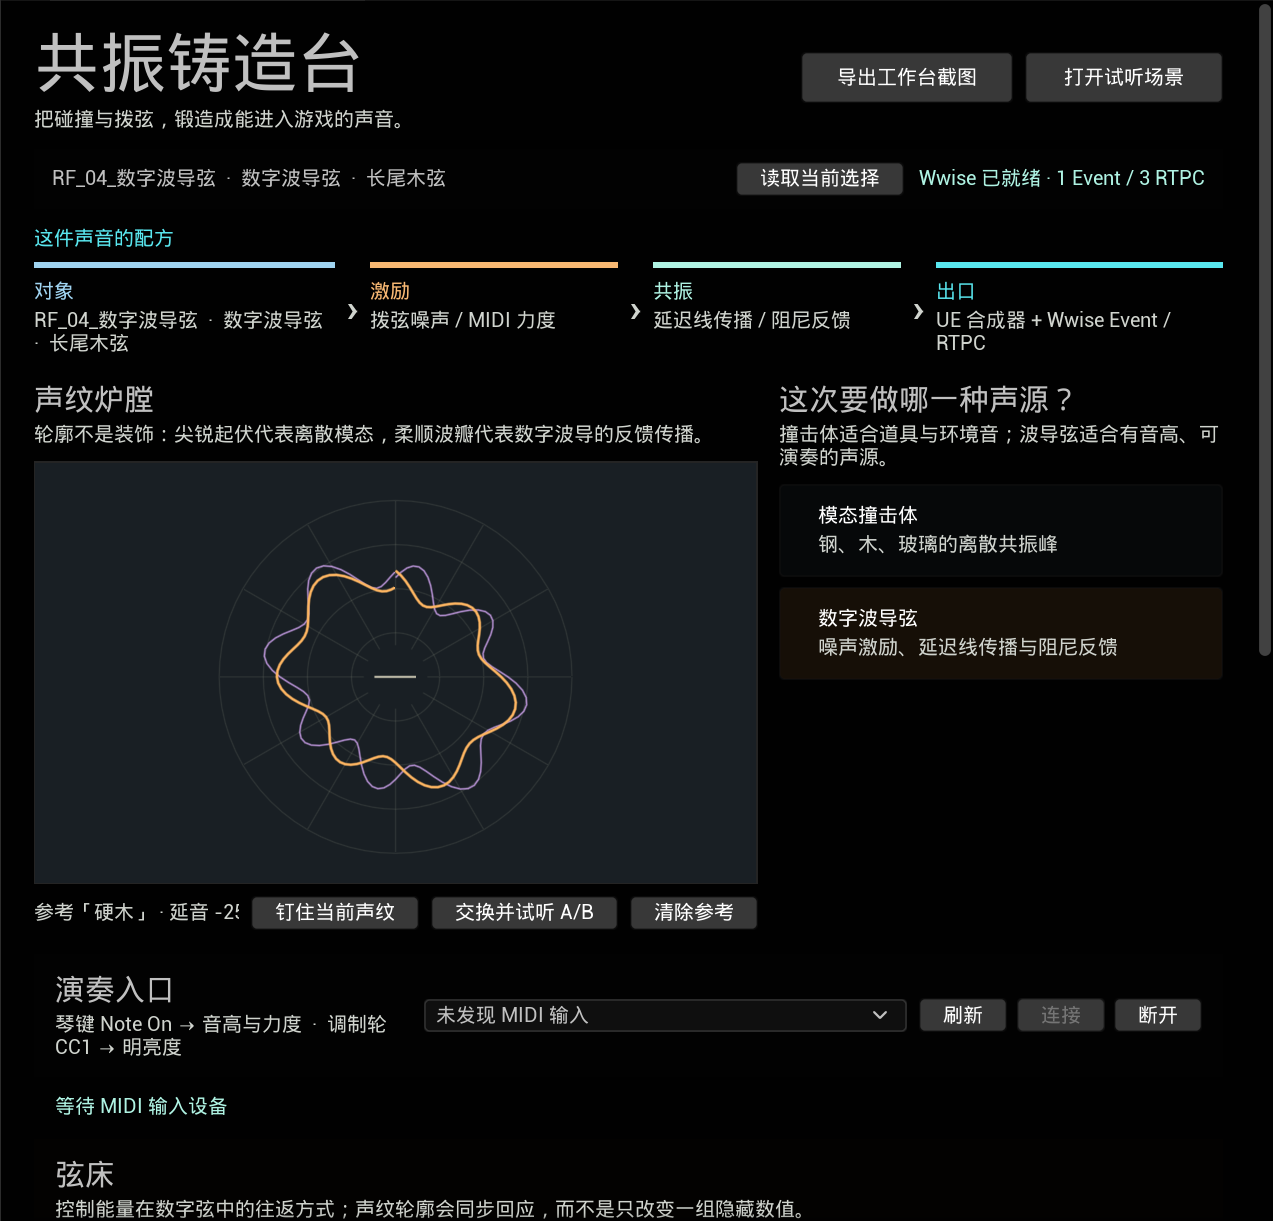
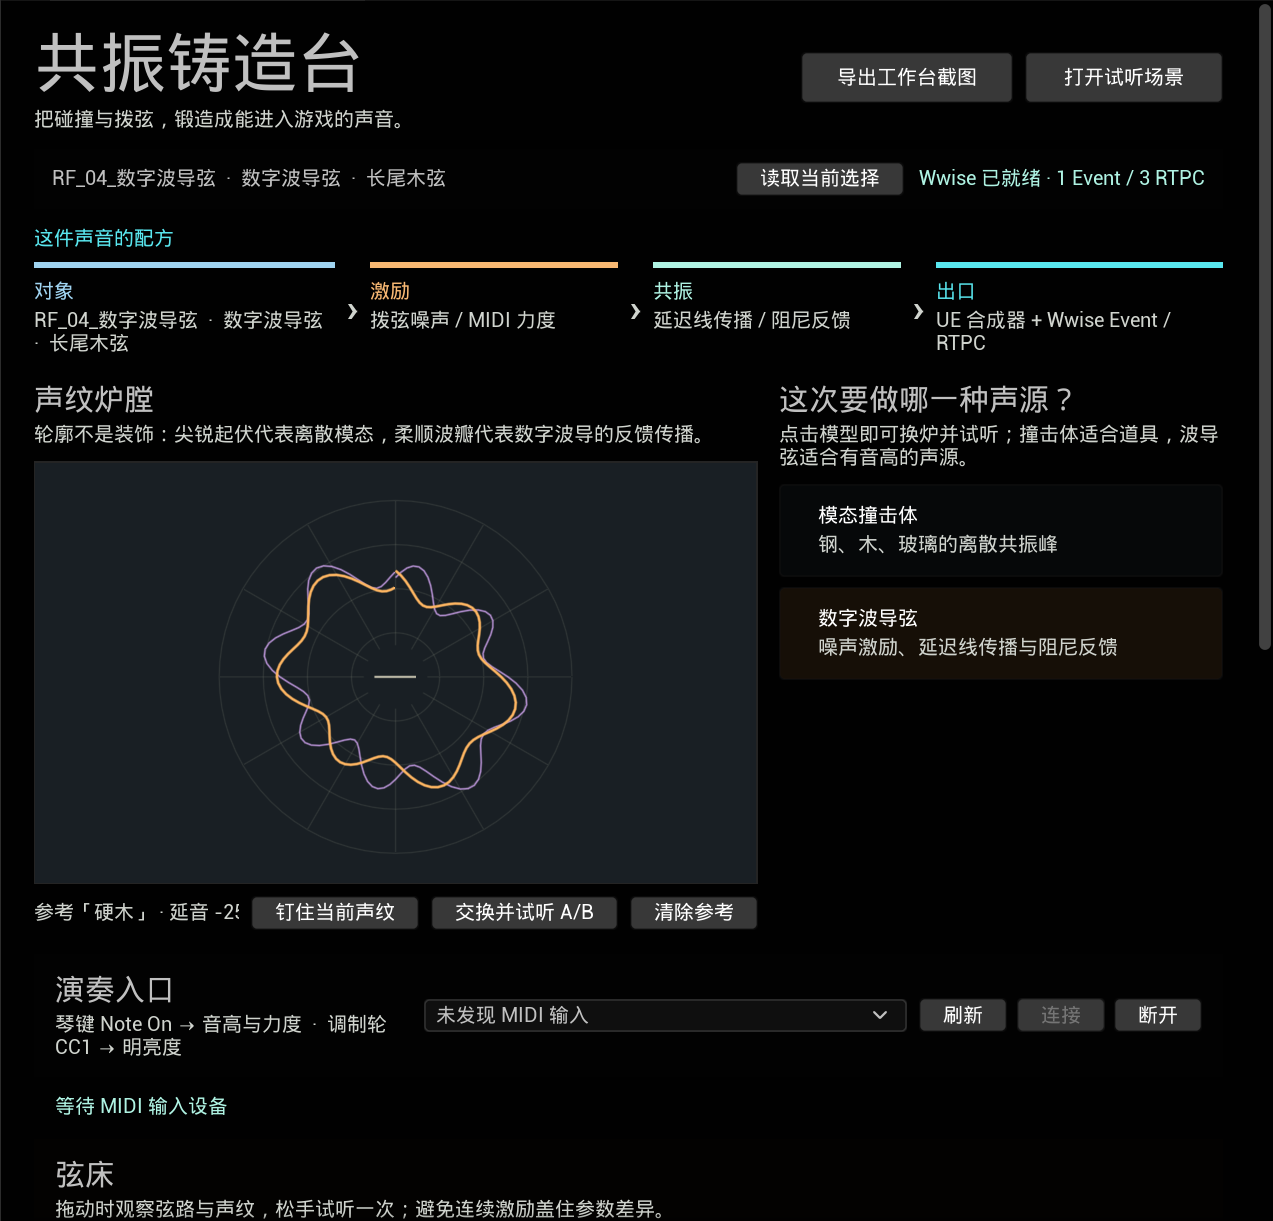
让工作台参数调整真正可试听

Changed region(s): [[0.0306, 0.9648, 0.6434, 1.0], [0.6127, 0.3423, 0.9497, 0.4046]]

diff --git a/Source/ResonanceForgeEditor/Private/ResonanceForgeEditorModule.cpp b/Source/ResonanceForgeEditor/Private/ResonanceForgeEditorModule.cpp
@@ -312,6 +312,26 @@ void FResonanceForgeEditorModule::ApplyWaveguideParameters()
     }
 }
 
+void FResonanceForgeEditorModule::AuditionCurrentSound(const FText& ChangeLabel)
+{
+    if (AResonanceForgeImpactInstrumentActor* Instrument = ResolveInstrument())
+    {
+        Instrument->ObjectSize = PreviewSize;
+        ApplyWaveguideParameters();
+        Instrument->TriggerInstrument(PreviewEnergy, PreviewBrightness, 60);
+        LastStatus = FText::Format(
+            NSLOCTEXT("ResonanceForge", "AuditionedChange", "{0} · 已试听  能量 {1}% / 明亮度 {2}% / 尺度 {3}%"),
+            ChangeLabel,
+            FText::AsNumber(FMath::RoundToInt(PreviewEnergy * 100.0f)),
+            FText::AsNumber(FMath::RoundToInt(PreviewBrightness * 100.0f)),
+            FText::AsNumber(FMath::RoundToInt(PreviewSize * 100.0f)));
+    }
+    else
+    {
+        LastStatus = NSLOCTEXT("ResonanceForge", "AuditionMissing", "无法试听 · 请先打开试听场景并选择一个共振体");
+    }
+}
+
 FReply FResonanceForgeEditorModule::SyncFromSelection()
 {
     if (const AResonanceForgeImpactInstrumentActor* Instrument = ResolveInstrument())
@@ -346,22 +366,7 @@ FReply FResonanceForgeEditorModule::SyncFromSelection()
 
 FReply FResonanceForgeEditorModule::TriggerPreview()
 {
-    if (AResonanceForgeImpactInstrumentActor* Instrument = ResolveInstrument())
-    {
-        Instrument->ObjectSize = PreviewSize;
-        ApplyWaveguideParameters();
-        Instrument->TriggerInstrument(PreviewEnergy, PreviewBrightness, 60);
-        LastStatus = FText::Format(
-            NSLOCTEXT("ResonanceForge", "Triggered", "已触发 {0} · Energy {1}% / Brightness {2}% / Size {3}%"),
-            FText::FromName(Instrument->ResonancePreset),
-            FText::AsNumber(FMath::RoundToInt(PreviewEnergy * 100.0f)),
-            FText::AsNumber(FMath::RoundToInt(PreviewBrightness * 100.0f)),
-            FText::AsNumber(FMath::RoundToInt(PreviewSize * 100.0f)));
-    }
-    else
-    {
-        LastStatus = NSLOCTEXT("ResonanceForge", "PreviewMissing", "无法预听 · 场景中没有可用的共振体");
-    }
+    AuditionCurrentSound(NSLOCTEXT("ResonanceForge", "CurrentVoice", "当前声纹"));
     return FReply::Handled();
 }
 
@@ -984,6 +989,9 @@ TSharedRef<SDockTab> FResonanceForgeEditorModule::SpawnWorkbench(const FSpawnTab
             .OnClicked_Lambda([this, ModelType]
             {
                 ApplyModel(ModelType);
+                AuditionCurrentSound(ModelType == EResonanceModelType::WaveguideString
+                    ? NSLOCTEXT("ResonanceForge", "WaveguideAudition", "数字波导弦")
+                    : NSLOCTEXT("ResonanceForge", "ModalAudition", "模态撞击体"));
                 return FReply::Handled();
             })
             [
@@ -1005,11 +1013,14 @@ TSharedRef<SDockTab> FResonanceForgeEditorModule::SpawnWorkbench(const FSpawnTab
             .OnClicked_Lambda([this, Preset]
             {
                 ApplyPreset(Preset);
+                AuditionCurrentSound(FText::Format(
+                    NSLOCTEXT("ResonanceForge", "PresetAudition", "材质「{0}」"),
+                    FText::FromName(Preset)));
                 return FReply::Handled();
             });
     };
 
-    auto ParameterRow = [](const FText& Name, const FText& Mapping, float* Value, const FLinearColor& Color)
+    auto ParameterRow = [this](const FText& Name, const FText& Mapping, float* Value, const FLinearColor& Color)
     {
         return SNew(SVerticalBox)
             + SVerticalBox::Slot().AutoHeight()
@@ -1024,8 +1035,17 @@ TSharedRef<SDockTab> FResonanceForgeEditorModule::SpawnWorkbench(const FSpawnTab
             ]
             + SVerticalBox::Slot().AutoHeight().Padding(0, 7, 0, 0)
             [
-                SNew(SSlider).Value_Lambda([Value]{ return *Value; }).OnValueChanged_Lambda([Value](float NewValue){ *Value = NewValue; })
-                .SliderBarColor(Color).SliderHandleColor(Color)
+                SNew(SSlider)
+                .Value_Lambda([Value]{ return *Value; })
+                .OnValueChanged_Lambda([Value](float NewValue){ *Value = NewValue; })
+                .OnMouseCaptureEnd_Lambda([this, Name]
+                {
+                    AuditionCurrentSound(FText::Format(
+                        NSLOCTEXT("ResonanceForge", "ParameterAudition", "{0}调整完成"),
+                        Name));
+                })
+                .SliderBarColor(Color)
+                .SliderHandleColor(Color)
             ];
     };
 
@@ -1094,6 +1114,12 @@ TSharedRef<SDockTab> FResonanceForgeEditorModule::SpawnWorkbench(const FSpawnTab
                 {
                     *Value = NewValue;
                     ApplyWaveguideParameters();
+                })
+                .OnMouseCaptureEnd_Lambda([this, Name]
+                {
+                    AuditionCurrentSound(FText::Format(
+                        NSLOCTEXT("ResonanceForge", "WaveguideParameterAudition", "{0}调整完成"),
+                        Name));
                 })
                 .SliderBarColor(Color)
                 .SliderHandleColor(Color)
@@ -1210,7 +1236,7 @@ TSharedRef<SDockTab> FResonanceForgeEditorModule::SpawnWorkbench(const FSpawnTab
                         + SHorizontalBox::Slot().FillWidth(0.95f).Padding(7, 0, 0, 0)
                         [
                             SNew(SVerticalBox)
-                            + SVerticalBox::Slot().AutoHeight()[WorkspaceTitle(NSLOCTEXT("ResonanceForge", "Model", "这次要做哪一种声源？"), NSLOCTEXT("ResonanceForge", "ModelDetail", "撞击体适合道具与环境音；波导弦适合有音高、可演奏的声源。"))]
+                            + SVerticalBox::Slot().AutoHeight()[WorkspaceTitle(NSLOCTEXT("ResonanceForge", "Model", "这次要做哪一种声源？"), NSLOCTEXT("ResonanceForge", "ModelDetail", "点击模型即可换炉并试听；撞击体适合道具，波导弦适合有音高的声源。"))]
                             + SVerticalBox::Slot().AutoHeight().Padding(0, 10, 0, 7)
                             [ModelButton(EResonanceModelType::ModalImpact, NSLOCTEXT("ResonanceForge", "Modal", "模态撞击体"), NSLOCTEXT("ResonanceForge", "ModalHelp", "钢、木、玻璃的离散共振峰"), Cyan)]
                             + SVerticalBox::Slot().AutoHeight()
@@ -1270,7 +1296,7 @@ TSharedRef<SDockTab> FResonanceForgeEditorModule::SpawnWorkbench(const FSpawnTab
                         [
                             SNew(SVerticalBox)
                             + SVerticalBox::Slot().AutoHeight()
-                            [WorkspaceTitle(NSLOCTEXT("ResonanceForge", "StringBed", "弦床"), NSLOCTEXT("ResonanceForge", "StringBedDetail", "控制能量在数字弦中的往返方式；声纹轮廓会同步回应，而不是只改变一组隐藏数值。"))]
+                            [WorkspaceTitle(NSLOCTEXT("ResonanceForge", "StringBed", "弦床"), NSLOCTEXT("ResonanceForge", "StringBedDetail", "拖动时观察弦路与声纹，松手试听一次；避免连续激励盖住参数差异。"))]
                             + SVerticalBox::Slot().AutoHeight().Padding(0, 12, 0, 0)
                             [
                                 SNew(SHorizontalBox)
@@ -1289,7 +1315,7 @@ TSharedRef<SDockTab> FResonanceForgeEditorModule::SpawnWorkbench(const FSpawnTab
                         + SHorizontalBox::Slot().FillWidth(1.0f).Padding(0, 0, 10, 0)
                         [
                             SNew(SVerticalBox)
-                            + SVerticalBox::Slot().AutoHeight()[WorkspaceTitle(NSLOCTEXT("ResonanceForge", "Material", "给对象一种听感"), NSLOCTEXT("ResonanceForge", "MaterialDetail", "预设同时改变表面外观、共振峰分布与衰减。"))]
+                            + SVerticalBox::Slot().AutoHeight()[WorkspaceTitle(NSLOCTEXT("ResonanceForge", "Material", "给对象一种听感"), NSLOCTEXT("ResonanceForge", "MaterialDetail", "点击预设会同步表面、共振峰与衰减，并立即试听。"))]
                             + SVerticalBox::Slot().AutoHeight().Padding(0, 10, 0, 0)
                             [
                                 SNew(SHorizontalBox)
@@ -1301,7 +1327,7 @@ TSharedRef<SDockTab> FResonanceForgeEditorModule::SpawnWorkbench(const FSpawnTab
                         + SHorizontalBox::Slot().FillWidth(1.0f).Padding(10, 0, 0, 0)
                         [
                             SNew(SVerticalBox)
-                            + SVerticalBox::Slot().AutoHeight()[WorkspaceTitle(NSLOCTEXT("ResonanceForge", "Performance", "塑造这一次发声"), NSLOCTEXT("ResonanceForge", "PerformanceDetail", "拖动参数后立即试听；同一数值也会发送给 Wwise。"))]
+                            + SVerticalBox::Slot().AutoHeight()[WorkspaceTitle(NSLOCTEXT("ResonanceForge", "Performance", "塑造这一次发声"), NSLOCTEXT("ResonanceForge", "PerformanceDetail", "拖动时看声纹与出口刻度，松手试听一次；同一数值发送给 Wwise。"))]
                             + SVerticalBox::Slot().AutoHeight().Padding(0, 12, 0, 0)[ParameterRow(NSLOCTEXT("ResonanceForge", "Energy", "激励能量"), FText::FromString(TEXT("RF_ImpactEnergy")), &PreviewEnergy, Steel)]
                             + SVerticalBox::Slot().AutoHeight().Padding(0, 12, 0, 0)[ParameterRow(NSLOCTEXT("ResonanceForge", "Brightness", "明亮度"), FText::FromString(TEXT("RF_ImpactBrightness")), &PreviewBrightness, Glass)]
                             + SVerticalBox::Slot().AutoHeight().Padding(0, 12, 0, 0)[ParameterRow(NSLOCTEXT("ResonanceForge", "Size", "共振尺度"), FText::FromString(TEXT("RF_ObjectSize")), &PreviewSize, Wood)]

diff --git a/Source/ResonanceForgeEditor/Public/ResonanceForgeEditorModule.h b/Source/ResonanceForgeEditor/Public/ResonanceForgeEditorModule.h
@@ -17,6 +17,7 @@ private:
     void ApplyPreset(const FName PresetName);
     void ApplyModel(EResonanceModelType ModelType);
     void ApplyWaveguideParameters();
+    void AuditionCurrentSound(const FText& ChangeLabel);
     FReply SyncFromSelection();
     FReply TriggerPreview();
     FReply TriggerStrikePreset(float Energy, float Brightness, const FText& GestureName);

diff --git a/README.md b/README.md
@@ -8,7 +8,7 @@
 ![Unreal Engine 5.8](https://img.shields.io/badge/Unreal_Engine-5.8.1-0E1128?logo=unrealengine&logoColor=white)
 ![Wwise 2025.1](https://img.shields.io/badge/Wwise-2025.1-00549F)
 ![Platform](https://img.shields.io/badge/Platform-Windows_Editor-0078D4?logo=windows&logoColor=white)
-![Version](https://img.shields.io/badge/Version-0.11.0-D96B2B)
+![Version](https://img.shields.io/badge/Version-0.12.0-D96B2B)
 ![License](https://img.shields.io/badge/License-MIT-2EA44F)
 
 </div>
@@ -33,6 +33,7 @@
 - **真实场景输入**：碰撞冲量、相对速度和物体尺寸直接影响声音。
 - **UE × Wwise 双路径**：UE 原生合成可独立试听，同时发布 Wwise Event 与 3 个 RTPC。
 - **锤击标尺与出口刻度**：轻触、常规、重击三档手势一键试听，并把 RTPC 曲线翻译成近似的 dB、低通与 cent 读数。
+- **可听的直接编辑**：点击材质或模型立即试听；拖动参数时声纹和出口刻度实时变化，松手只触发一次声音，避免连续 Event 互相遮盖。
 - **可演奏**：面板可发现并连接 MIDI 输入设备；Note On 控制音高与力度，CC1 控制音色明亮度，并显示实时演奏状态。
 - **声纹炉膛**：用随模型、材质与演奏参数实时变化的声学指纹理解声音，而不是只看抽象滑杆。
 - **A/B 声纹比较**：钉住一次参考声纹，再更换材质或参数；“交换并试听 A/B”可在两个版本间往返切换。
@@ -114,9 +115,9 @@ flowchart LR
 1. 点击“打开试听场景”。
 2. 在场景中选择钢、木、玻璃砧座或数字波导弦。
 3. 点击“读取当前选择”。
-4. 选择共振模型和材质预设。
+4. 选择共振模型和材质预设；每次点击都会立即试听当前结果。
 5. 先点“轻触 / 常规 / 重击”建立力度参照；每一档都会立即试听，并在“Wwise 出口刻度”显示近似的响度、低通和移调结果。
-6. 再细调激励能量、明亮度与共振尺度，观察声纹轮廓和出口刻度同步变化。
+6. 再细调激励能量、明亮度与共振尺度：拖动时观察声纹和出口刻度，松手试听一次。
 7. 点击“钉住当前声纹”，再切换材质或参数，比较紫色参考轮廓与当前声纹。
 8. 点击“交换并试听 A/B”在两版之间往返切换；每次交换都会立即触发当前版本。
 9. 使用“配方架”把满意的版本存入甲、乙或丙槽，需要时一键召回到当前对象。

diff --git a/docs/演示与截图指南.md b/docs/演示与截图指南.md
@@ -5,9 +5,9 @@
 1. 打开 `ResonanceForgeDemo.uproject`，点击插件中的“打开试听场景”。有 Fab 素材时会进入增强声学工坊，否则进入基础场景。
 2. 通过“窗口 → 音频工具”打开“共振铸造台 · 材质声源工作台”，停靠在右侧。
 3. 在场景中选择拉丝钢、硬木或薄玻璃共振体，点击“读取当前选择”，展示顶部对象状态与声源配方同步变化。
-4. 在插件中切换材质预设，说明视觉材质与模态共振预设是同一次操作。
+4. 在插件中切换材质预设；点击后会同步视觉材质与模态共振预设，并立即试听当前结果。
 5. 依次点击“轻触 / 常规 / 重击”，先用锤击标尺建立可听的力度参照；指出下方出口刻度同步显示近似的 dB、Low-pass 与 cent。
-6. 再细调撞击能量、音色明亮度、共振体尺寸，观察“声纹炉膛”和 Wwise 出口刻度同时变化。
+6. 再细调撞击能量、音色明亮度、共振体尺寸：拖动时观察“声纹炉膛”和 Wwise 出口刻度同时变化，松手后只触发一次声音。
 7. 点击“钉住当前声纹”，再切换硬木或薄玻璃；紫色参考轮廓保留，底部显示能量、明亮度与尺度差值。
 8. 点击“交换并试听 A/B”，在当前版本和紫色参考之间往返切换；每次交换都会立即试听切换后的版本。
 9. 把其中一版存入“甲槽”，切换模型或材质后再召回，展示模型、材质和三项参数同步恢复。
@@ -102,6 +102,14 @@ docs/images/resonance-forge-workbench-details.png
 ```
 
 两张图都来自真实 Slate 控件状态，不需要 Computer Use，也不会伪造 MIDI 设备或 Wwise Profiler 数据。硬件 MIDI 与 Wwise Profiler 证据仍应在设备实际连接时单独截图。
+
+## 试听交互
+
+- 点击材质或模型：完成切换后立即触发当前声音。
+- 拖动主参数或弦床：拖动过程只更新声纹与刻度，松开鼠标后触发一次 UE Synth 与 Wwise Event。
+- 点击锤击标尺：直接写入该手势的能量与明亮度并触发试听，共振尺度保持当前值。
+
+这种交互避免在连续拖动时堆叠大量撞击或波导复音，同时保留参数变化的即时视觉反馈。
 
 ## 截图验收
 
